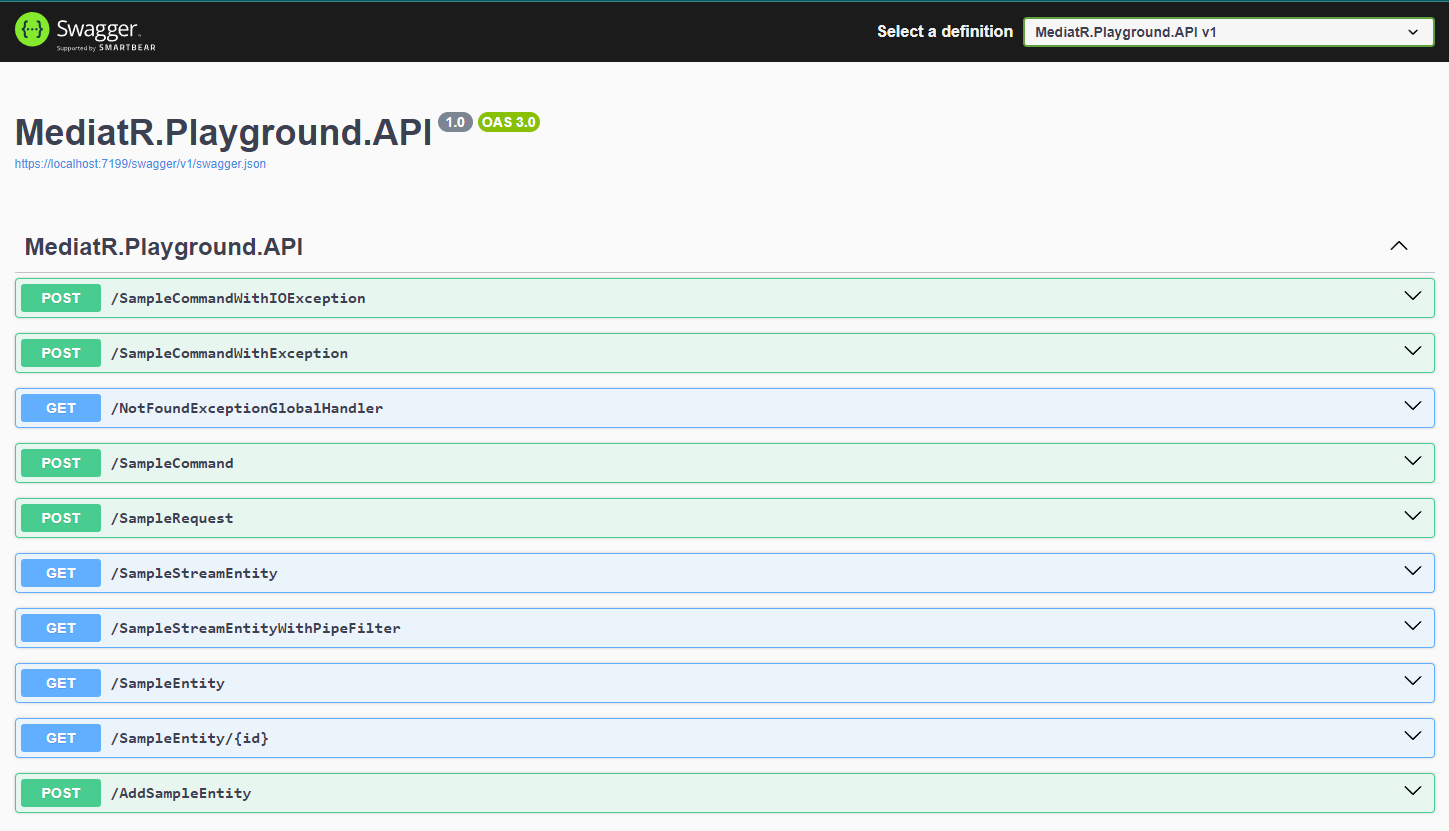
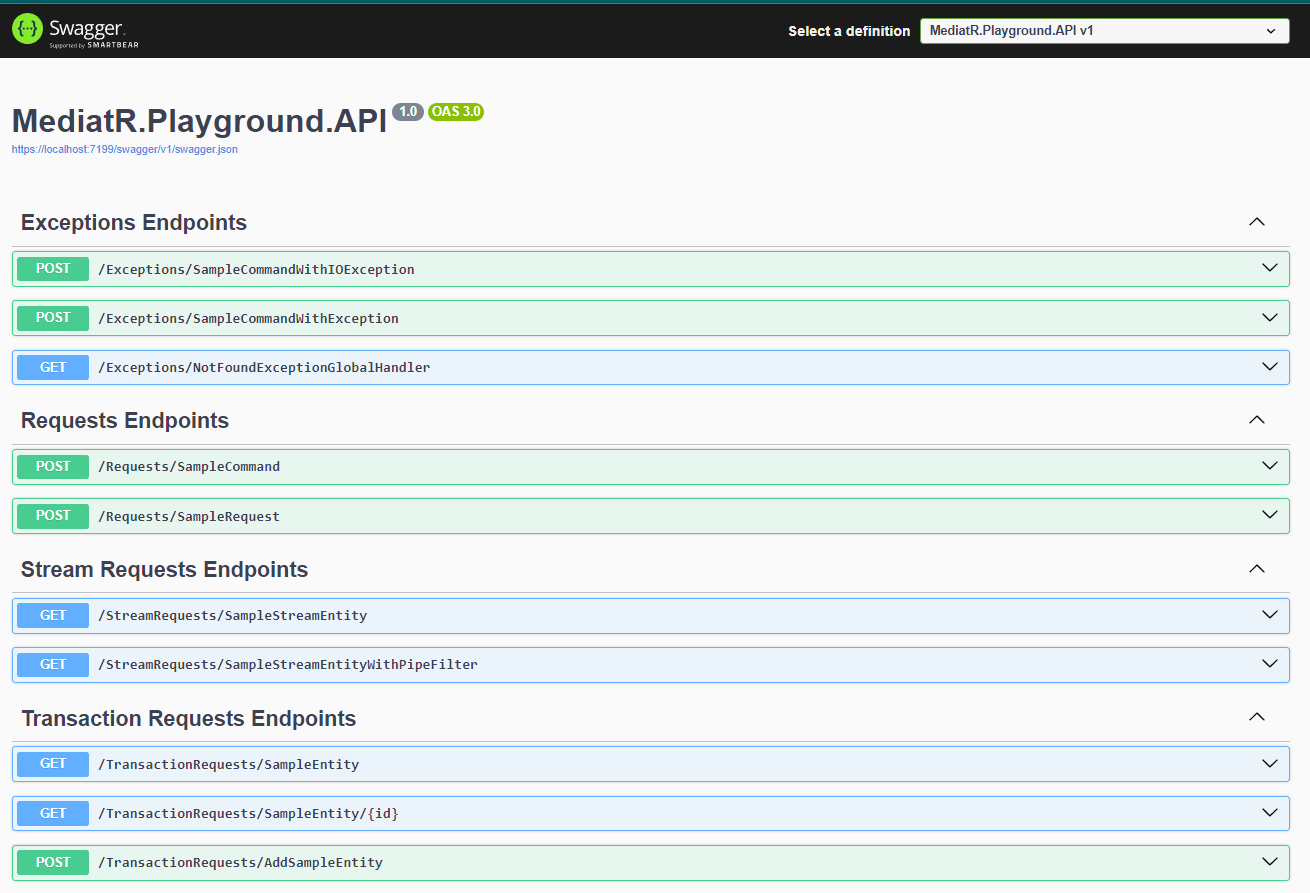
Add group endpoints; Add new Image; Clean up code;

Changed region(s): [[0.0, 0.2407, 1.0, 0.9928], [0.0, 0.0, 1.0, 0.2106]]

diff --git a/src/MediatR.Playground.API/Endpoints/ExceptionsEndpoints.cs b/src/MediatR.Playground.API/Endpoints/ExceptionsEndpoints.cs
@@ -1,5 +1,4 @@
-using MediatR;
-using MediatR.Playground.API.Endpoints.Primitives;
+using MediatR.Playground.API.Endpoints.Primitives;
 using MediatR.Playground.API.Models;
 using MediatR.Playground.Model.Command;
 using MediatR.Playground.Model.Queries.Entity;
@@ -11,7 +10,11 @@ public class ExceptionsEndpoints : IEndpoint
 {
     public void MapEndpoint(IEndpointRouteBuilder app)
     {
-        app.MapPost(
+
+        var group = app.MapGroup("/Exceptions")
+              .WithTags("Exceptions Endpoints");
+
+        group.MapPost(
                 "/SampleCommandWithIOException",
                 ([FromBody] SampleBody sampleBody, IMediator mediator) =>
                 {
@@ -31,7 +34,7 @@ public class ExceptionsEndpoints : IEndpoint
             .WithName("SampleCommandWithIOException")
             .WithOpenApi();
 
-        app.MapPost(
+        group.MapPost(
                 "/SampleCommandWithException",
                 ([FromBody] SampleBody sampleBody, IMediator mediator) =>
                 {
@@ -49,7 +52,7 @@ public class ExceptionsEndpoints : IEndpoint
             .WithName("SampleCommandWithException")
             .WithOpenApi();
 
-        app.MapGet(
+        group.MapGet(
                 "/NotFoundExceptionGlobalHandler",
                 (IMediator mediator) =>
                 {

diff --git a/src/MediatR.Playground.API/Endpoints/TransactionEndpoints.cs b/src/MediatR.Playground.API/Endpoints/TransactionEndpoints.cs
@@ -1,5 +1,4 @@
-using MediatR;
-using MediatR.Playground.API.Endpoints.Primitives;
+using MediatR.Playground.API.Endpoints.Primitives;
 using MediatR.Playground.API.Models;
 using MediatR.Playground.Model.Queries.Entity;
 using MediatR.Playground.Model.TransactionCommand;
@@ -11,7 +10,12 @@ public class TransactionEndpoints : IEndpoint
 {
     public void MapEndpoint(IEndpointRouteBuilder app)
     {
-        app.MapGet(
+
+        var group = app.MapGroup("/TransactionRequests")
+                    .WithTags("Transaction Requests Endpoints");
+
+
+        group.MapGet(
                 "/SampleEntity",
                 (IMediator mediator) =>
                 {
@@ -21,7 +25,7 @@ public class TransactionEndpoints : IEndpoint
             .WithName("SampleEntity")
             .WithOpenApi();
 
-        app.MapGet(
+        group.MapGet(
                 "/SampleEntity/{id}",
                 (Guid id, IMediator mediator) =>
                 {
@@ -31,7 +35,7 @@ public class TransactionEndpoints : IEndpoint
             .WithName("SampleEntityById")
             .WithOpenApi();
 
-        app.MapPost(
+        group.MapPost(
                 "/AddSampleEntity",
                 ([FromBody] SampleBody sampleBody, IMediator mediator) =>
                 {

diff --git a/src/MediatR.Playground.API/Endpoints/StreamRequestEndpoint.cs b/src/MediatR.Playground.API/Endpoints/StreamRequestEndpoint.cs
@@ -1,5 +1,4 @@
-using MediatR;
-using MediatR.Playground.API.Endpoints.Primitives;
+using MediatR.Playground.API.Endpoints.Primitives;
 using MediatR.Playground.Model.Queries.StreamEntity;
 using MediatR.Playground.Model.Queries.StreamEntityWithFilter;
 
@@ -9,7 +8,11 @@ public class StreamRequestEndpoint : IEndpoint
 {
     public void MapEndpoint(IEndpointRouteBuilder app)
     {
-        app.MapGet(
+
+        var group = app.MapGroup("/StreamRequests")
+       .WithTags("Stream Requests Endpoints");
+
+        group.MapGet(
                 "/SampleStreamEntity",
                 (IMediator mediator, CancellationToken cancellationToken) =>
                 {
@@ -20,7 +23,7 @@ public class StreamRequestEndpoint : IEndpoint
             .Produces<IAsyncEnumerable<SampleStreamEntityQueryResult>>()
             .WithOpenApi();
 
-        app.MapGet(
+        group.MapGet(
                 "/SampleStreamEntityWithPipeFilter",
                 (IMediator mediator, CancellationToken cancellationToken) =>
                 {

diff --git a/src/MediatR.Playground.API/Endpoints/RequestsAndCommandEndpoints.cs b/src/MediatR.Playground.API/Endpoints/RequestsAndCommandEndpoints.cs
@@ -1,5 +1,4 @@
-using MediatR;
-using MediatR.Playground.API.Endpoints.Primitives;
+using MediatR.Playground.API.Endpoints.Primitives;
 using MediatR.Playground.API.Models;
 using MediatR.Playground.Model.Command;
 using MediatR.Playground.Model.Request;
@@ -11,7 +10,11 @@ public class RequestsAndCommandEndpoints : IEndpoint
 {
     public void MapEndpoint(IEndpointRouteBuilder app)
     {
-        app.MapPost(
+        var group = app.MapGroup("/Requests")
+           .WithTags("Requests Endpoints");
+
+
+        group.MapPost(
                 "/SampleCommand",
                 ([FromBody] SampleBody sampleBody, IMediator mediator) =>
                 {
@@ -28,7 +31,7 @@ public class RequestsAndCommandEndpoints : IEndpoint
             .WithName("SampleCommand")
             .WithOpenApi();
 
-        app.MapPost(
+        group.MapPost(
                 "/SampleRequest",
                 ([FromBody] SampleBody sampleBody, IMediator mediator) =>
                 {

diff --git a/src/MediatR.Playground.Model/Queries/StreamEntityWithFilter/SampleStreamEntityWithPipeFilterQuery.cs b/src/MediatR.Playground.Model/Queries/StreamEntityWithFilter/SampleStreamEntityWithPipeFilterQuery.cs
@@ -1,6 +1,4 @@
-using MediatR;
-
-namespace MediatR.Playground.Model.Queries.StreamEntityWithFilter
+namespace MediatR.Playground.Model.Queries.StreamEntityWithFilter
 {
     public class SampleStreamEntityWithPipeFilterQuery
         : IStreamRequest<SampleStreamEntityWithPipeFilterQueryResult>

diff --git a/src/MediatR.Playground.Domain/TransactionCommandHandler/SampleCommandHandler.cs b/src/MediatR.Playground.Domain/TransactionCommandHandler/SampleCommandHandler.cs
@@ -1,5 +1,4 @@
-using MediatR;
-using MediatR.Playground.Model.TransactionCommand;
+using MediatR.Playground.Model.TransactionCommand;
 using MediatR.Playground.Persistence;
 using MediatR.Playground.Persistence.Repository;
 using Microsoft.Extensions.Logging;

diff --git a/src/MediatR.Playground.Domain/QueryHandler/StreamEntityWithFilter/SampleStreamQueryHandler.cs b/src/MediatR.Playground.Domain/QueryHandler/StreamEntityWithFilter/SampleStreamQueryHandler.cs
@@ -1,5 +1,4 @@
-using MediatR;
-using MediatR.Playground.Model.Queries.StreamEntityWithFilter;
+using MediatR.Playground.Model.Queries.StreamEntityWithFilter;
 using MediatR.Playground.Persistence;
 using MediatR.Playground.Persistence.Repository;
 

diff --git a/src/MediatR.Playground.Model/Queries/StreamEntity/SampleStreamEntityQuery.cs b/src/MediatR.Playground.Model/Queries/StreamEntity/SampleStreamEntityQuery.cs
@@ -1,6 +1,4 @@
-using MediatR;
-
-namespace MediatR.Playground.Model.Queries.StreamEntity
+namespace MediatR.Playground.Model.Queries.StreamEntity
 {
     public class SampleStreamEntityQuery : IStreamRequest<SampleStreamEntityQueryResult> { }
 

diff --git a/src/MediatR.Playground.Domain/QueryHandler/StreamEntity/SampleStreamQueryHandler.cs b/src/MediatR.Playground.Domain/QueryHandler/StreamEntity/SampleStreamQueryHandler.cs
@@ -1,5 +1,4 @@
-using MediatR;
-using MediatR.Playground.Model.Queries.StreamEntity;
+using MediatR.Playground.Model.Queries.StreamEntity;
 using MediatR.Playground.Persistence;
 using MediatR.Playground.Persistence.Repository;
 

diff --git a/src/MediatR.Playground.Domain/QueryHandler/Entity/GetAllSampleEntitiesHandler.cs b/src/MediatR.Playground.Domain/QueryHandler/Entity/GetAllSampleEntitiesHandler.cs
@@ -1,5 +1,4 @@
-using MediatR;
-using MediatR.Playground.Model.Queries.Entity;
+using MediatR.Playground.Model.Queries.Entity;
 using MediatR.Playground.Persistence;
 using MediatR.Playground.Persistence.Repository;
 

diff --git a/src/MediatR.Playground.Domain/QueryHandler/Entity/GetSampleEntityHandler.cs b/src/MediatR.Playground.Domain/QueryHandler/Entity/GetSampleEntityHandler.cs
@@ -1,5 +1,4 @@
-using MediatR;
-using MediatR.Playground.Model.Queries.Entity;
+using MediatR.Playground.Model.Queries.Entity;
 using MediatR.Playground.Persistence;
 using MediatR.Playground.Persistence.Repository;
 

diff --git a/src/MediatR.Playground.Model/Primitives/ITransactionCommand.cs b/src/MediatR.Playground.Model/Primitives/ITransactionCommand.cs
@@ -1,5 +1,3 @@
-using MediatR;
-
-namespace MediatR.Playground.Model.Primitives;
+namespace MediatR.Playground.Model.Primitives;
 
 public interface ITransactionCommand<out TResponse> : IRequest<TResponse> { }
